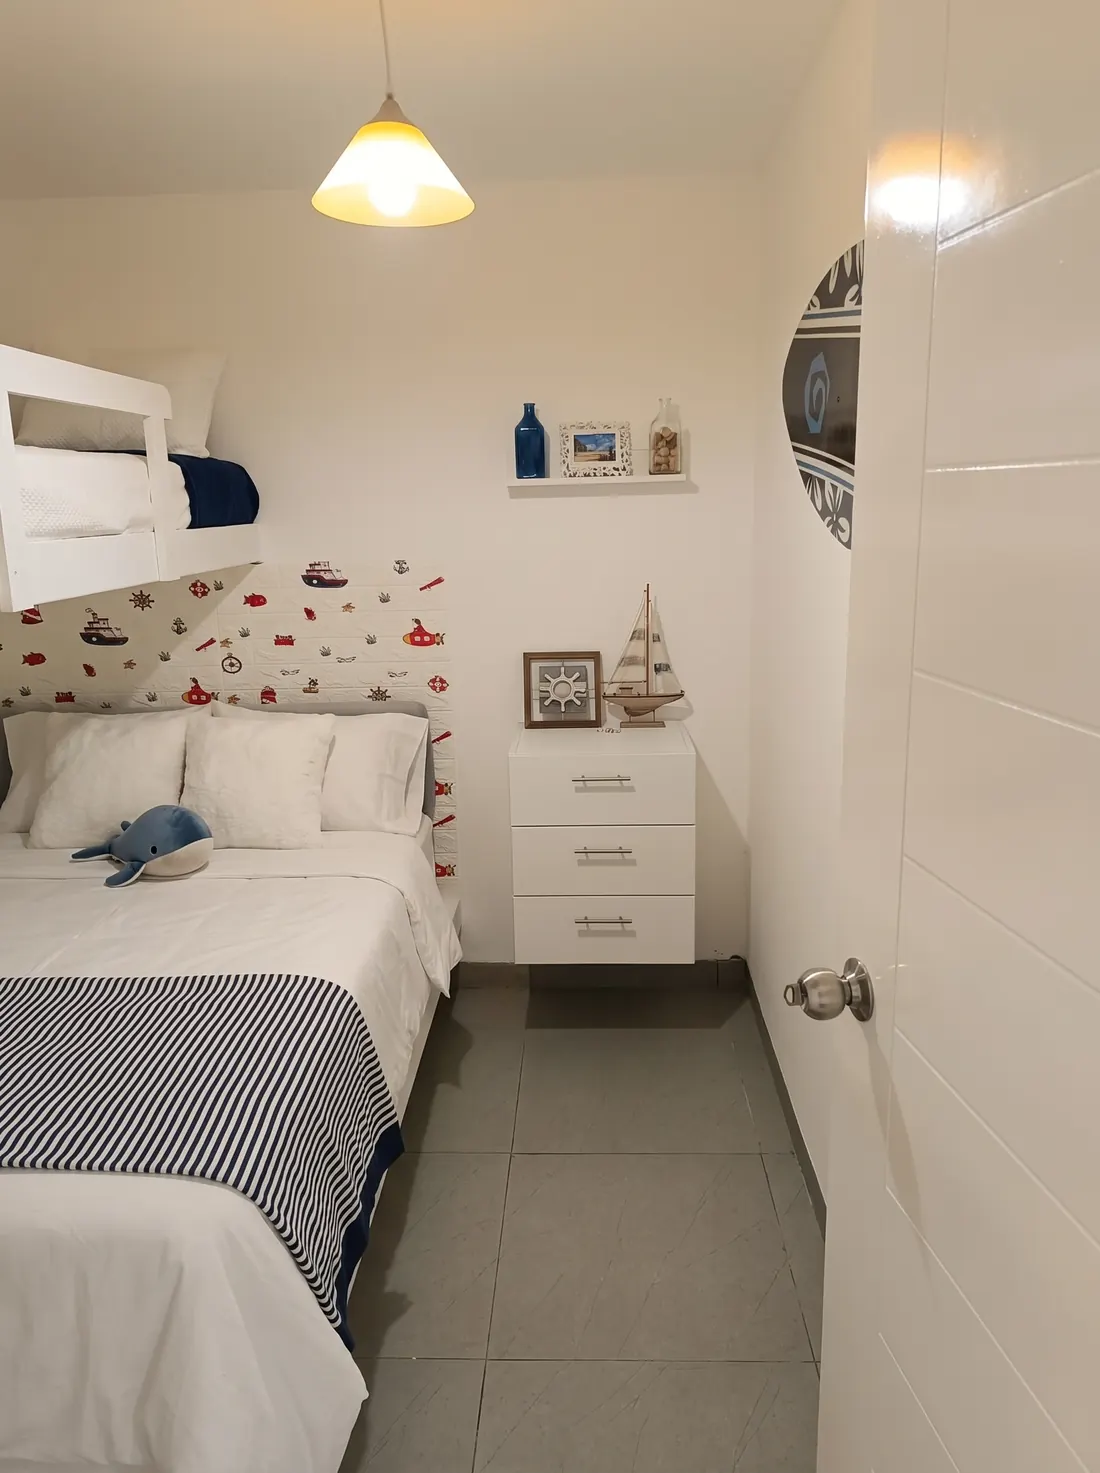
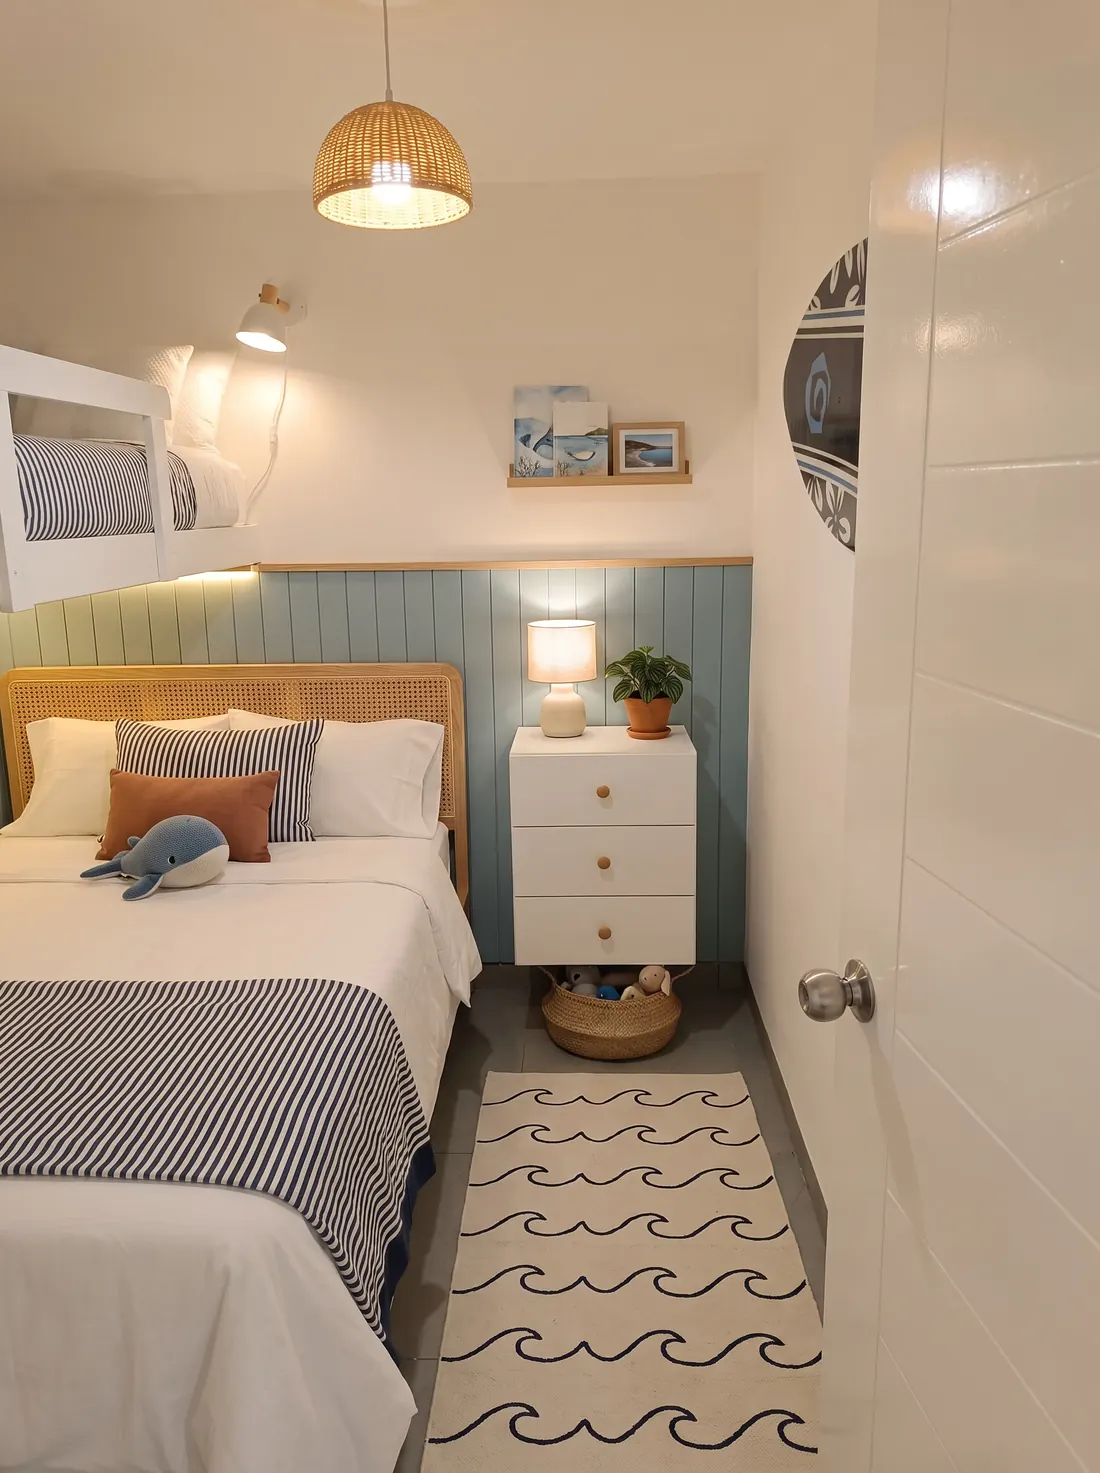
Fotos del rediseño Costa Serena, día/noche con terraza y jacuzzi, 3 dormitorios reales

diff --git a/index.html b/index.html
@@ -138,9 +138,19 @@
       </div>
       <div class="dn-grid">
         <figure class="dn-card dn-card--wide">
-          <img class="dn-day" src="/img/fachada-dia.webp" alt="Fachada del depa 004 de día: terraza techada con jacuzzi, sillones y parrilla frente al jardín privado" loading="lazy" />
-          <img class="dn-night" src="/img/fachada-noche.webp" alt="Fachada del depa 004 de noche: faroles encendidos, interior iluminado y jacuzzi con luz" loading="lazy" />
-          <figcaption>La terraza del 004</figcaption>
+          <img class="dn-day" src="/img/fachada-dia.webp" alt="Fachada del depa 004 de día: terraza con jacuzzi forrado en madera, sillones, tumbonas y sombrilla de paja en el jardín privado" loading="lazy" />
+          <img class="dn-night" src="/img/fachada-noche.webp" alt="Fachada del depa 004 de noche: guirnalda de luces, jacuzzi iluminado y olivos con luz cálida" loading="lazy" />
+          <figcaption>El jardín privado del 004</figcaption>
+        </figure>
+        <figure class="dn-card">
+          <img class="dn-day" src="/img/terraza-dia.webp" alt="Terraza techada con sofá de exterior, sillón de madera y cuerda y parrilla a gas" loading="lazy" />
+          <img class="dn-night" src="/img/terraza-noche.webp" alt="Terraza de noche con apliques y guirnalda encendidos" loading="lazy" />
+          <figcaption>Terraza y parrilla</figcaption>
+        </figure>
+        <figure class="dn-card">
+          <img class="dn-day" src="/img/jacuzzi-dia.webp" alt="Jacuzzi temperado con faldón de madera, escalón y toallas" loading="lazy" />
+          <img class="dn-night" src="/img/jacuzzi-noche.webp" alt="Jacuzzi temperado de noche con luz turquesa y velas" loading="lazy" />
+          <figcaption>Jacuzzi temperado</figcaption>
         </figure>
         <figure class="dn-card">
           <img class="dn-day" src="/img/condominio-atardecer.webp" alt="Condominio al atardecer con jardines, palmeras y cerros" loading="lazy" />
@@ -150,7 +160,7 @@
         <figure class="dn-card">
           <img class="dn-day" src="/img/caleta-dia.webp" alt="La caleta de día con sombrillas de junco y mar turquesa" loading="lazy" />
           <img class="dn-night" src="/img/caleta-noche.webp" alt="La caleta de noche con luna llena sobre el mar" loading="lazy" />
-          <figcaption>La caleta</figcaption>
+          <figcaption>La caleta, a 5 minutos</figcaption>
         </figure>
       </div>
     </section>
@@ -161,17 +171,19 @@
         <div class="rooms__intro">
           <p class="eyebrow">Interiores</p>
           <h2 id="rooms-title" class="display display--light">Luz, lino<br /><em>y brisa de mar.</em></h2>
-          <p class="rooms__lede">Sala y comedor abiertos hacia la terraza, cocina equipada y tres dormitorios listos con ropa de cama de hotel.</p>
+          <p class="rooms__lede">Sala y comedor abiertos hacia la terraza, cocina equipada, tres dormitorios con ropa de cama de hotel y dos baños completos.</p>
         </div>
         <div class="rooms__track">
-          <article class="room"><img src="/img/sala.webp" alt="Sala con sofá empotrado en L, cojines de lino y mesa de centro" loading="lazy" /><h3>Sala</h3><p>Sofá en L para toda la familia.</p></article>
-          <article class="room"><img src="/img/comedor.webp" alt="Comedor para seis personas junto a la cocina" loading="lazy" /><h3>Comedor</h3><p>Mesa para seis, a un paso de la cocina.</p></article>
-          <article class="room"><img src="/img/cocina.webp" alt="Cocina en L con horno microondas, freidora de aire y hervidor" loading="lazy" /><h3>Cocina</h3><p>Equipada para cocinar de verdad.</p></article>
-          <article class="room room--tall"><img src="/img/dormitorio-principal.webp" alt="Dormitorio principal con cama de dos plazas y ropa de cama blanca" loading="lazy" /><h3>Dormitorio principal</h3><p>Ropa de cama de hotel.</p></article>
-          <article class="room room--tall"><img src="/img/dormitorio-2.webp" alt="Segundo dormitorio con televisor" loading="lazy" /><h3>Dormitorio 2</h3><p>Con TV y ventilador.</p></article>
-          <article class="room room--tall"><img src="/img/dormitorio-ninos.webp" alt="Cuarto de niños con cama alta y cama de dos plazas" loading="lazy" /><h3>Cuarto de niños</h3><p>Cama alta: la favorita de los chicos.</p></article>
-          <article class="room room--tall"><img src="/img/bano.webp" alt="Baño con lavatorio de sobreponer y toallas blancas" loading="lazy" /><h3>Baños</h3><p>Dos baños completos.</p></article>
-          <article class="room"><img src="/img/jacuzzi-noche.webp" alt="Jacuzzi iluminado de noche en la terraza techada" loading="lazy" /><h3>Jacuzzi</h3><p>El final perfecto de cada día.</p></article>
+          <article class="room"><img src="/img/sala-comedor.webp" alt="Sala y comedor abiertos: sofá en L con cojines de lino, mesa de centro redonda de roble y comedor para seis" loading="lazy" /><h3>Sala y comedor</h3><p>Un solo ambiente abierto hacia la terraza.</p></article>
+          <article class="room"><img src="/img/sala.webp" alt="Sala con sofá empotrado en L, cojines de lino, alfombra de yute y lámpara de ratán" loading="lazy" /><h3>Sala</h3><p>Sofá en L para toda la familia.</p></article>
+          <article class="room"><img src="/img/comedor.webp" alt="Comedor de roble para seis con sillas de ratán y dos lámparas de fibra" loading="lazy" /><h3>Comedor</h3><p>Mesa de roble para seis.</p></article>
+          <article class="room"><img src="/img/cocina.webp" alt="Cocina en L con frentes de roble, luz cálida bajo los muebles y electrodomésticos" loading="lazy" /><h3>Cocina</h3><p>Equipada para cocinar de verdad.</p></article>
+          <article class="room room--tall"><img src="/img/dormitorio-principal.webp" alt="Dormitorio principal con cabecera tapizada, ropa de cama blanca y clóset de roble" loading="lazy" /><h3>Dormitorio principal</h3><p>Cabecera tapizada y ropa de cama de hotel.</p></article>
+          <article class="room room--tall"><img src="/img/dormitorio-principal-tv.webp" alt="Dormitorio principal hacia la ventana, con TV y lámpara de ratán" loading="lazy" /><h3>Con TV y baño propio</h3><p>El cuarto de los papás.</p></article>
+          <article class="room room--tall"><img src="/img/dormitorio-ninos.webp" alt="Cuarto de niños con cama alta, cama de dos plazas y friso azul" loading="lazy" /><h3>Cuarto de niños I</h3><p>Cama de dos plazas + cama alta.</p></article>
+          <article class="room room--tall"><img src="/img/dormitorio-ninos-2.webp" alt="Segundo cuarto de niños con cama alta y ropa de cama a rayas" loading="lazy" /><h3>Cuarto de niños II</h3><p>La cama alta: la favorita de los chicos.</p></article>
+          <article class="room room--tall"><img src="/img/bano.webp" alt="Baño con espejo redondo iluminado, lavatorio de sobreponer y mueble de madera" loading="lazy" /><h3>Baño principal</h3><p>Espejo con luz y toallas blancas.</p></article>
+          <article class="room room--tall"><img src="/img/bano-2.webp" alt="Baño con mampara de vidrio y ducha" loading="lazy" /><h3>Segundo baño</h3><p>Mampara de vidrio.</p></article>
         </div>
       </div>
     </section>

diff --git a/src/styles.css b/src/styles.css
@@ -201,7 +201,7 @@ body.is-ready .nav { transform: translate(-50%, 0); }
 .dn-toggle[aria-pressed='true'] [data-night] { opacity: 1; }
 .dn-toggle[aria-pressed='true'] [data-day] { opacity: 0; }
 
-.dn-grid { width: min(1320px, 100%); margin: clamp(40px, 6vw, 72px) auto 0; padding-inline: var(--gutter); display: grid; grid-template-columns: 1fr 1fr; gap: clamp(12px, 1.6vw, 22px); }
+.dn-grid { width: min(1320px, 100%); margin: clamp(40px, 6vw, 72px) auto 0; padding-inline: var(--gutter); display: grid; grid-template-columns: repeat(2, 1fr); gap: clamp(12px, 1.6vw, 22px); }
 .dn-card { position: relative; margin: 0; border-radius: var(--radius); overflow: hidden; aspect-ratio: 4 / 3; background: var(--ink-2); }
 .dn-card--wide { grid-column: 1 / -1; aspect-ratio: 16 / 8; }
 .dn-card img { position: absolute; inset: 0; width: 100%; height: 100%; object-fit: cover; }
@@ -216,7 +216,8 @@ body.is-ready .nav { transform: translate(-50%, 0); }
 /* Interiores */
 .rooms { background: var(--ink); color: var(--on-dark); }
 .rooms__pin { height: 100vh; height: 100svh; display: flex; align-items: center; gap: clamp(32px, 5vw, 80px); padding-left: var(--gutter); overflow: hidden; }
-.rooms__intro { flex: 0 0 min(460px, 34vw); position: relative; z-index: 2; }
+.rooms__intro { flex: 0 0 min(460px, 34vw); position: relative; z-index: 2; align-self: stretch; display: flex; flex-direction: column; justify-content: center; padding-right: 24px; background: var(--ink); }
+.rooms__intro::after { content: ''; position: absolute; top: 0; bottom: 0; left: 100%; width: 90px; background: linear-gradient(90deg, var(--ink), rgba(12, 20, 24, 0)); pointer-events: none; }
 .rooms__intro .display { font-size: clamp(40px, 4.6vw, 76px); }
 .rooms__lede { margin: 28px 0 0; color: var(--on-dark-2); max-width: 38ch; }
 .rooms__track { display: flex; gap: 20px; align-items: flex-end; padding-right: var(--gutter); will-change: transform; }
@@ -299,7 +300,8 @@ body.is-ready .nav { transform: translate(-50%, 0); }
   .dn-grid { grid-template-columns: 1fr; }
   .dn-card--wide { aspect-ratio: 4 / 3; }
   .rooms__pin { height: auto; flex-direction: column; align-items: stretch; padding: 96px 0 80px; }
-  .rooms__intro { flex: none; padding-inline: var(--gutter); }
+  .rooms__intro { flex: none; padding-inline: var(--gutter); background: none; }
+  .rooms__intro::after { display: none; }
   .rooms__track { overflow-x: auto; scroll-snap-type: x mandatory; padding: 0 var(--gutter) 12px; -webkit-overflow-scrolling: touch; }
   .room, .room--tall { width: 78vw; scroll-snap-align: center; }
   .book__form { grid-template-columns: minmax(0, 1fr) minmax(0, 1fr); padding: 10px; }

diff --git a/tools/build_images.py b/tools/build_images.py
@@ -9,8 +9,7 @@ OUT = ROOT / 'public' / 'img'
 
 # nombre web -> archivo fuente (la versión más reciente gana)
 IMAGES = {
-    'fachada-dia': 'fotos_v2/09b_fachada_dia.png',
-    'fachada-noche': 'fotos_v2/10b_fachada_noche.png',
+    # Exteriores comunes (solo cielo y limpieza)
     'condominio-atardecer': 'fotos_v1/07_condominio_atardecer.png',
     'condominio-noche': 'fotos_v1/08_condominio_noche.png',
     'caleta-dia': 'fotos_v1/01_playa_dia.png',
@@ -18,18 +17,24 @@ IMAGES = {
     'caleta-noche': 'fotos_v1/03_playa_noche.png',
     'camino': 'fotos_v1/04_camino_playa.png',
     'juegos': 'fotos_v1/05_juegos_ninos.png',
-    'terraza': 'fotos_v1/11_terraza_parrilla.png',
-    'jacuzzi-noche': 'fotos_v2/12b_jacuzzi_noche.png',
-    'sala': 'fotos_v1/14_sala.png',
-    'sala-comedor': 'fotos_v1/13_sala_comedor.png',
-    'comedor': 'fotos_v2/15b_comedor_cocina.png',
-    'cocina': 'fotos_v2/16b_cocina_noche.png',
-    'dormitorio-principal': 'fotos_v1/17_dormitorio_principal.png',
-    'dormitorio-2': 'fotos_v1/18_dormitorio_tv.png',
-    'dormitorio-ninos': 'fotos_v1/19_dormitorio_ninos.png',
-    'dormitorio-surf': 'fotos_v1/20_dormitorio_surf.png',
-    'bano': 'fotos_v1/21_bano.png',
-    'bano-2': 'fotos_v1/22_bano_2.png',
+    # Rediseño "Costa Serena"
+    'fachada-dia': 'rediseno/final/fachada_dia_jacuzzi_madera.png',
+    'fachada-noche': 'rediseno/final/fachada_noche_jacuzzi_madera.png',
+    'terraza-dia': 'rediseno/terraza/terraza_A_lounge_dia.png',
+    'terraza-noche': 'rediseno/terraza/terraza_A_lounge_noche_v2.png',
+    'jacuzzi-dia': 'rediseno/jacuzzi/jacuzzi_FINAL_dia.png',
+    'jacuzzi-noche': 'rediseno/jacuzzi/jacuzzi_FINAL_noche.png',
+    'sala': 'rediseno/sala/sala_frontal_dia_v3.png',
+    'sala-comedor': 'rediseno/final/sala_comedor_general_nuevo.png',
+    'comedor': 'rediseno/comedor_cocina/comedor_A2b_inversion_dia.png',
+    'cocina': 'rediseno/comedor_cocina/cocina_B2b_inversion_noche.png',
+    'dormitorio-principal': 'rediseno/dorm_principal/B2_dia_roble_rejilla.png',
+    'dormitorio-principal-noche': 'rediseno/dorm_principal/B2_noche_roble_rejilla.png',
+    'dormitorio-principal-tv': 'rediseno/final/dormitorio_principal_vista_tv.png',
+    'dormitorio-ninos': 'rediseno/dorm_ninos/FINAL_A_dorm_ninos_friso.png',
+    'dormitorio-ninos-2': 'rediseno/dorm_ninos/FINAL_B_dorm_ninos_friso.png',
+    'bano': 'rediseno/banos/bano_lavatorio_premium_v2.png',
+    'bano-2': 'rediseno/banos/bano_ducha_premium_v1.png',
 }
 
 
